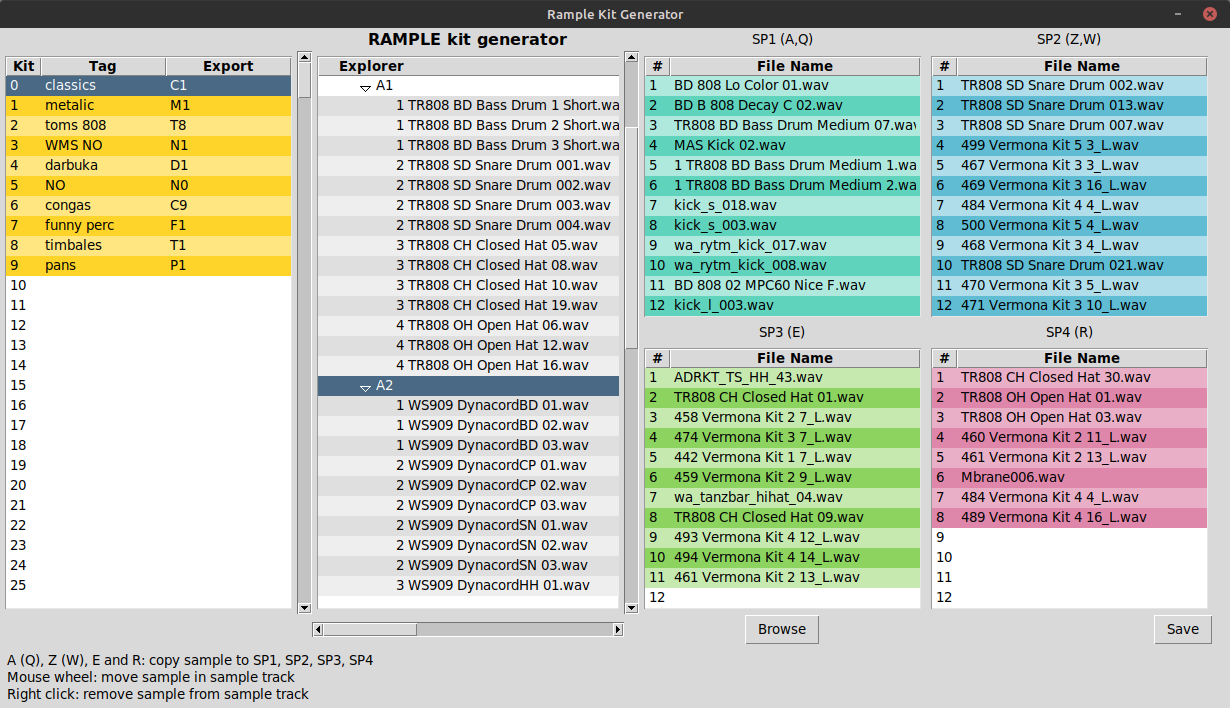
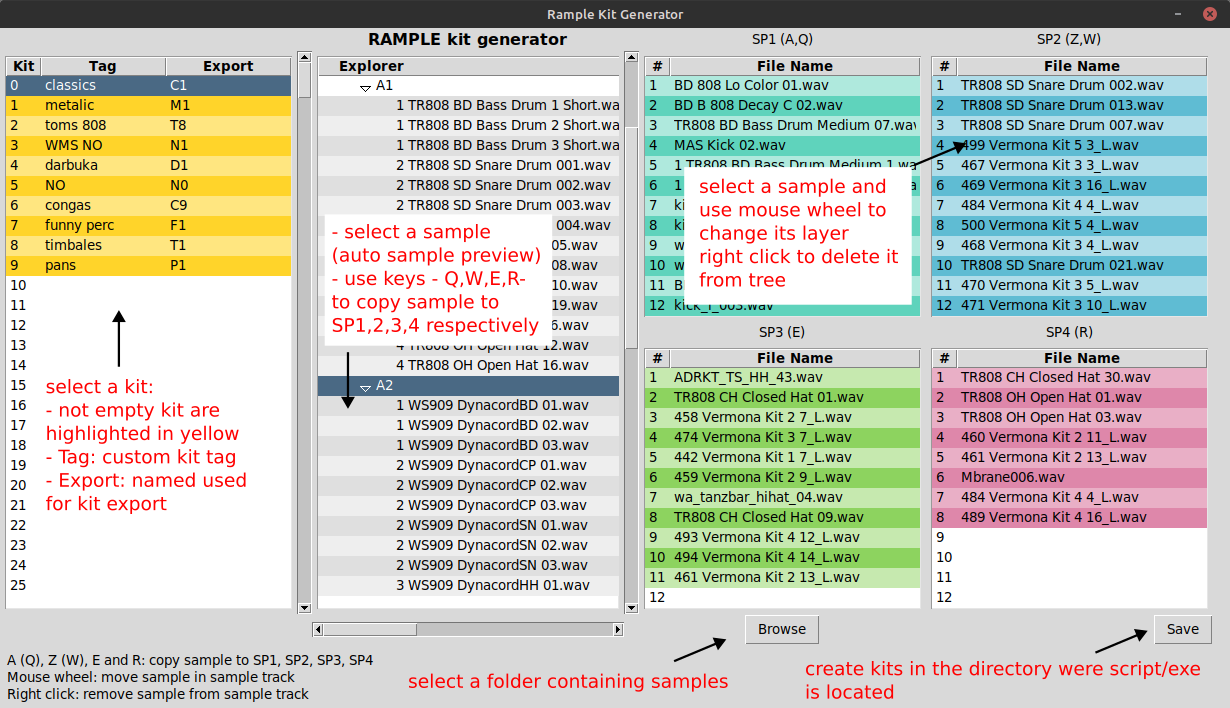
update

diff --git a/README.md b/README.md
@@ -1,8 +1,18 @@
 # Rample kit generator
 
-Launch script with python3 rample-kit-generator.py.
+The goal of this quick and dirty program is to avoid tedious copy/paste and renaming of samples to fit the Rample naming system.
 
-For windows users you can find a .exe file in the bin folder.
+Once *Save* is pressed a kits/ folder is created at the location where the script/exec is running. **!!! Each time Save is pressed, the folder is fully deleted and recreated !!!**.
+
+The program copies the original sample files into the kits/ folder by creating folders with the *Export* fields as names. Only kits with non empty *Export* field are exported. Samples are renamed as "X lY [sample_name.wav]"" where X is the SP track and Y the layer (representend by the sample position in the SP tree). See **Usage** section for more detail on operating the porgram.
+
+For compatibility reasons, a tmp.wav file is created for audio  preview.
+
+## Usage
+
+Launch script with `python3 rample-kit-generator.py`
+
+For windows users you can find a .exe file in the bin/ folder.
 
 The script was not tested under MacOS.
 
@@ -24,6 +34,10 @@ Following dependencies are required:
 
 - os
 
-## Usage
-
 ![Image](rkg.png?raw=true)
+
+The **Explorer** tree is used to browse (**Browse** button) folders and preview samples (when selected).
+
+The **Kit** tree is used to name the kit for export (**Export**: A0, A1...), but also has a **Tag** field just for convenience.
+
+Selected sample is added to the **SP** trees by pressing Q,W,E,R (works also with A,Z,E,R) keys. Samples can be moved in the tree with mouse wheel, or deleted by righ-clicking.
